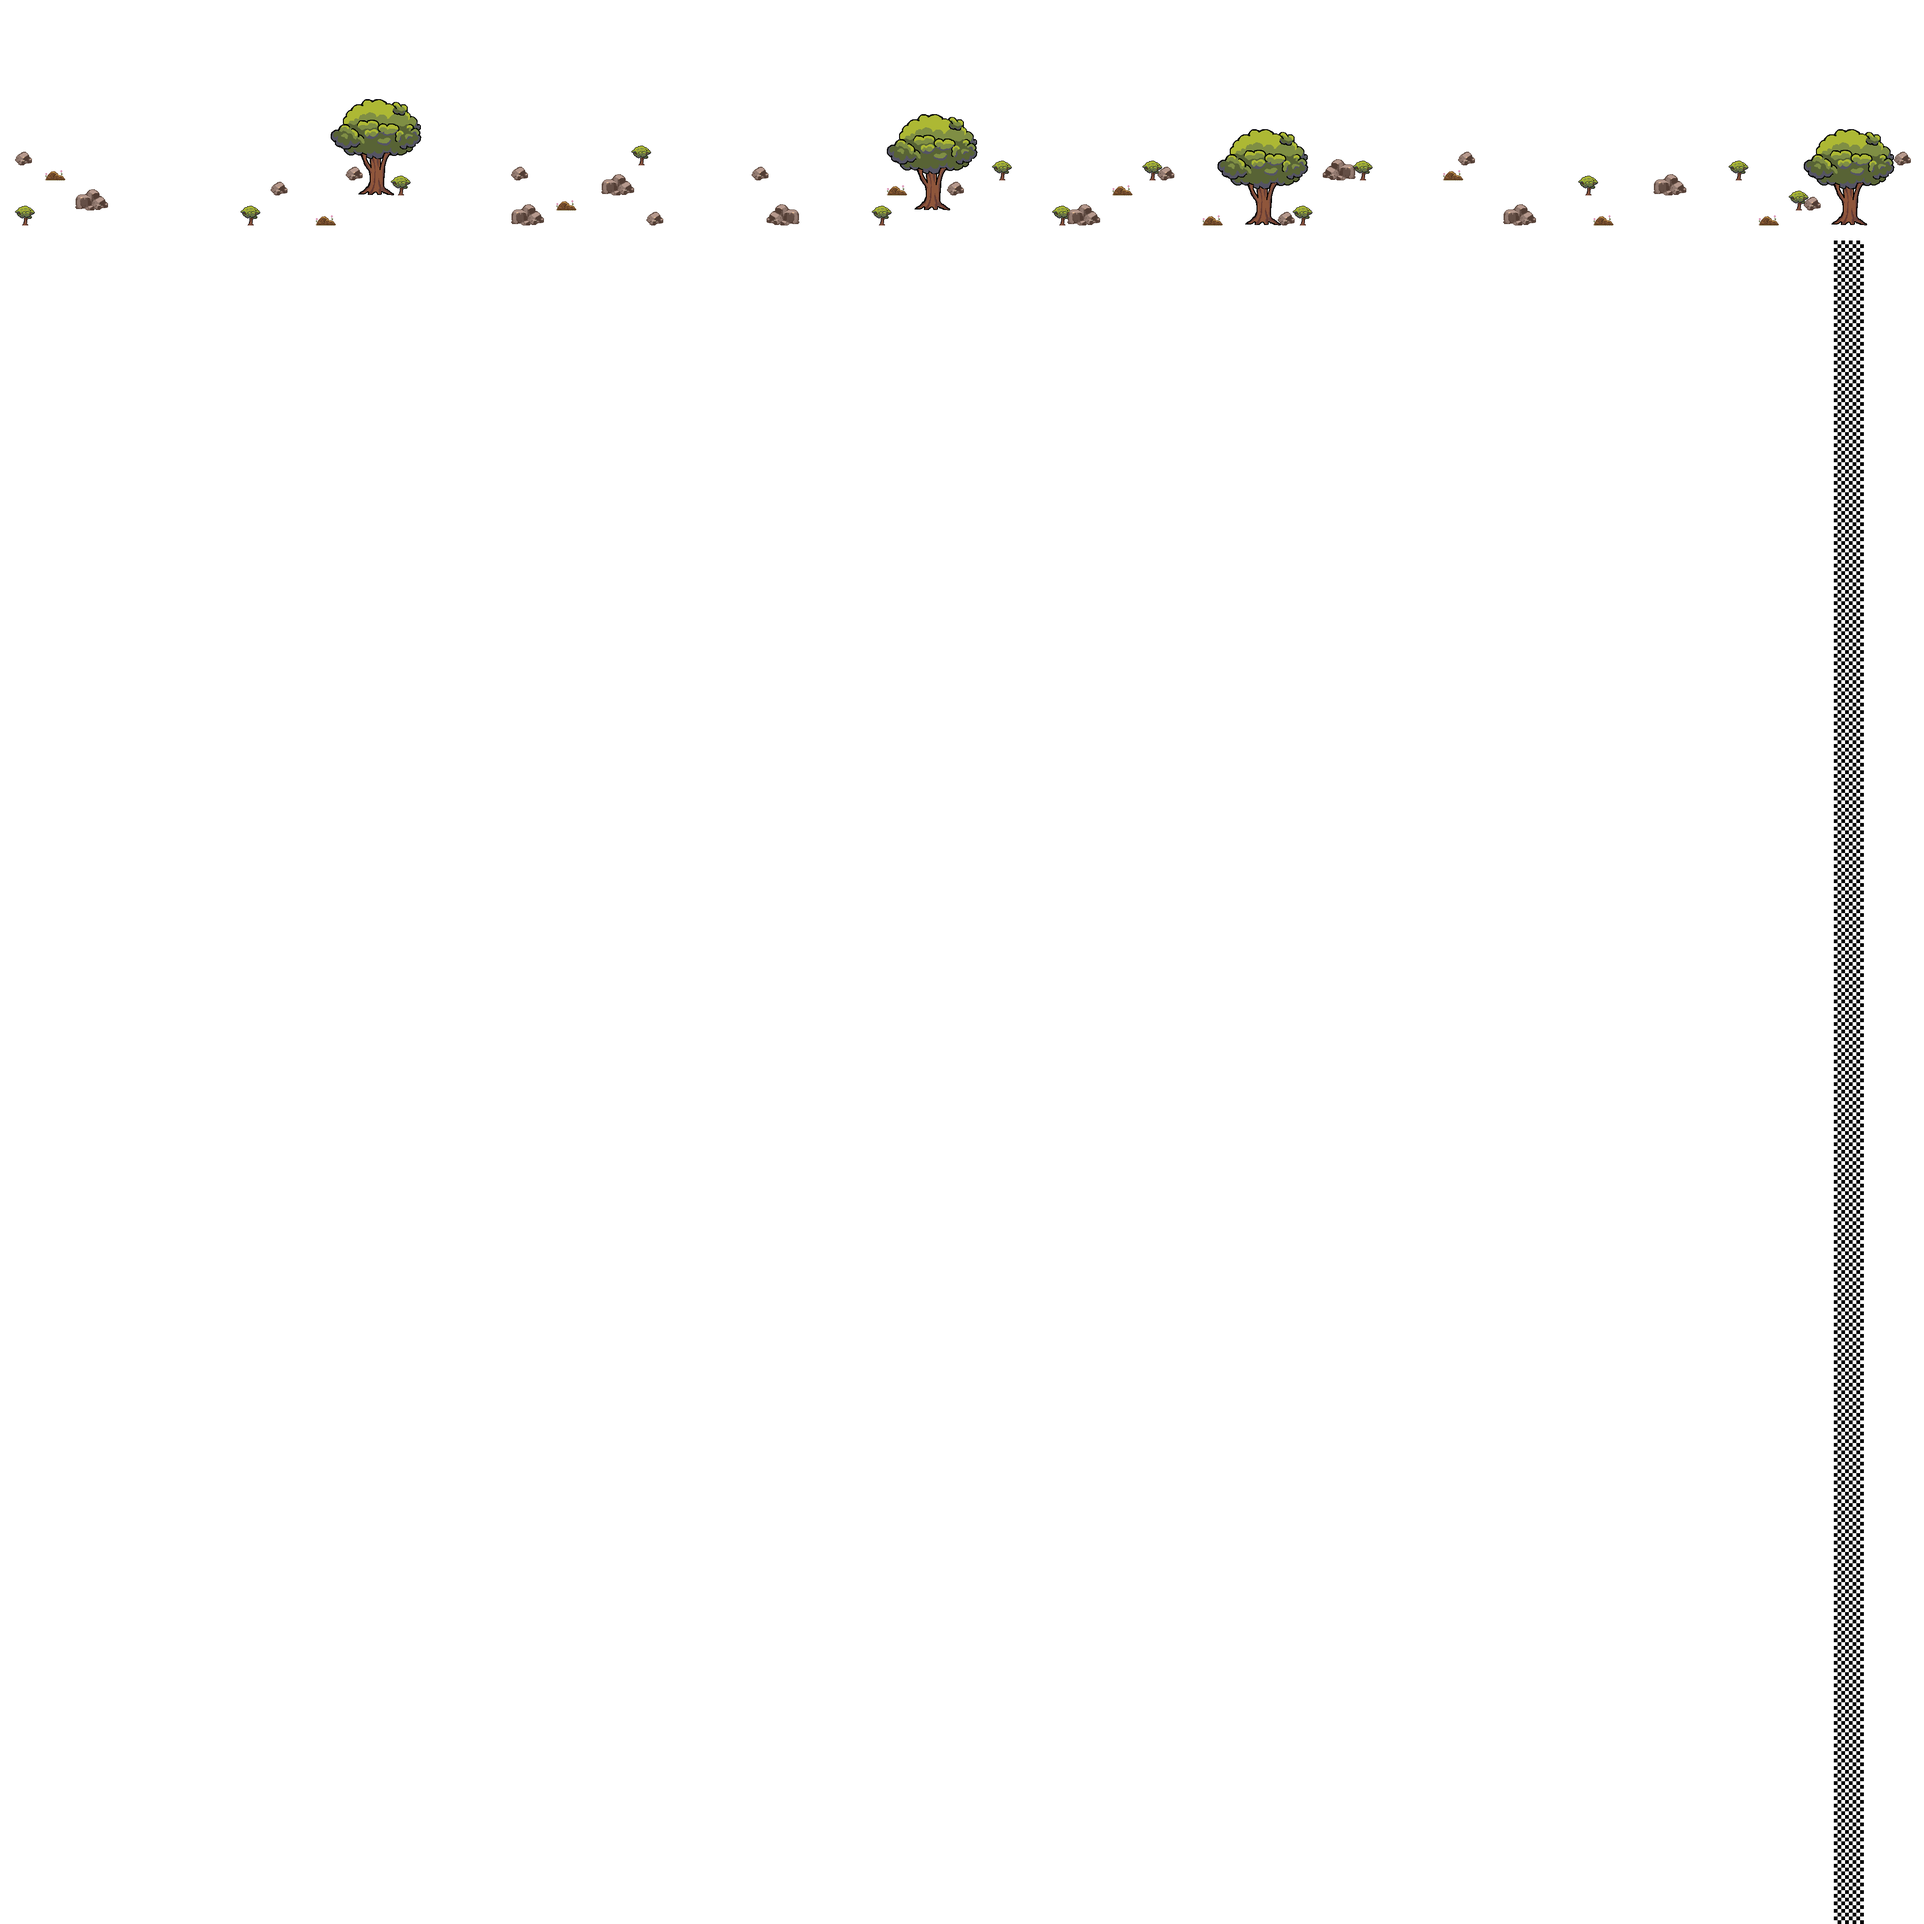
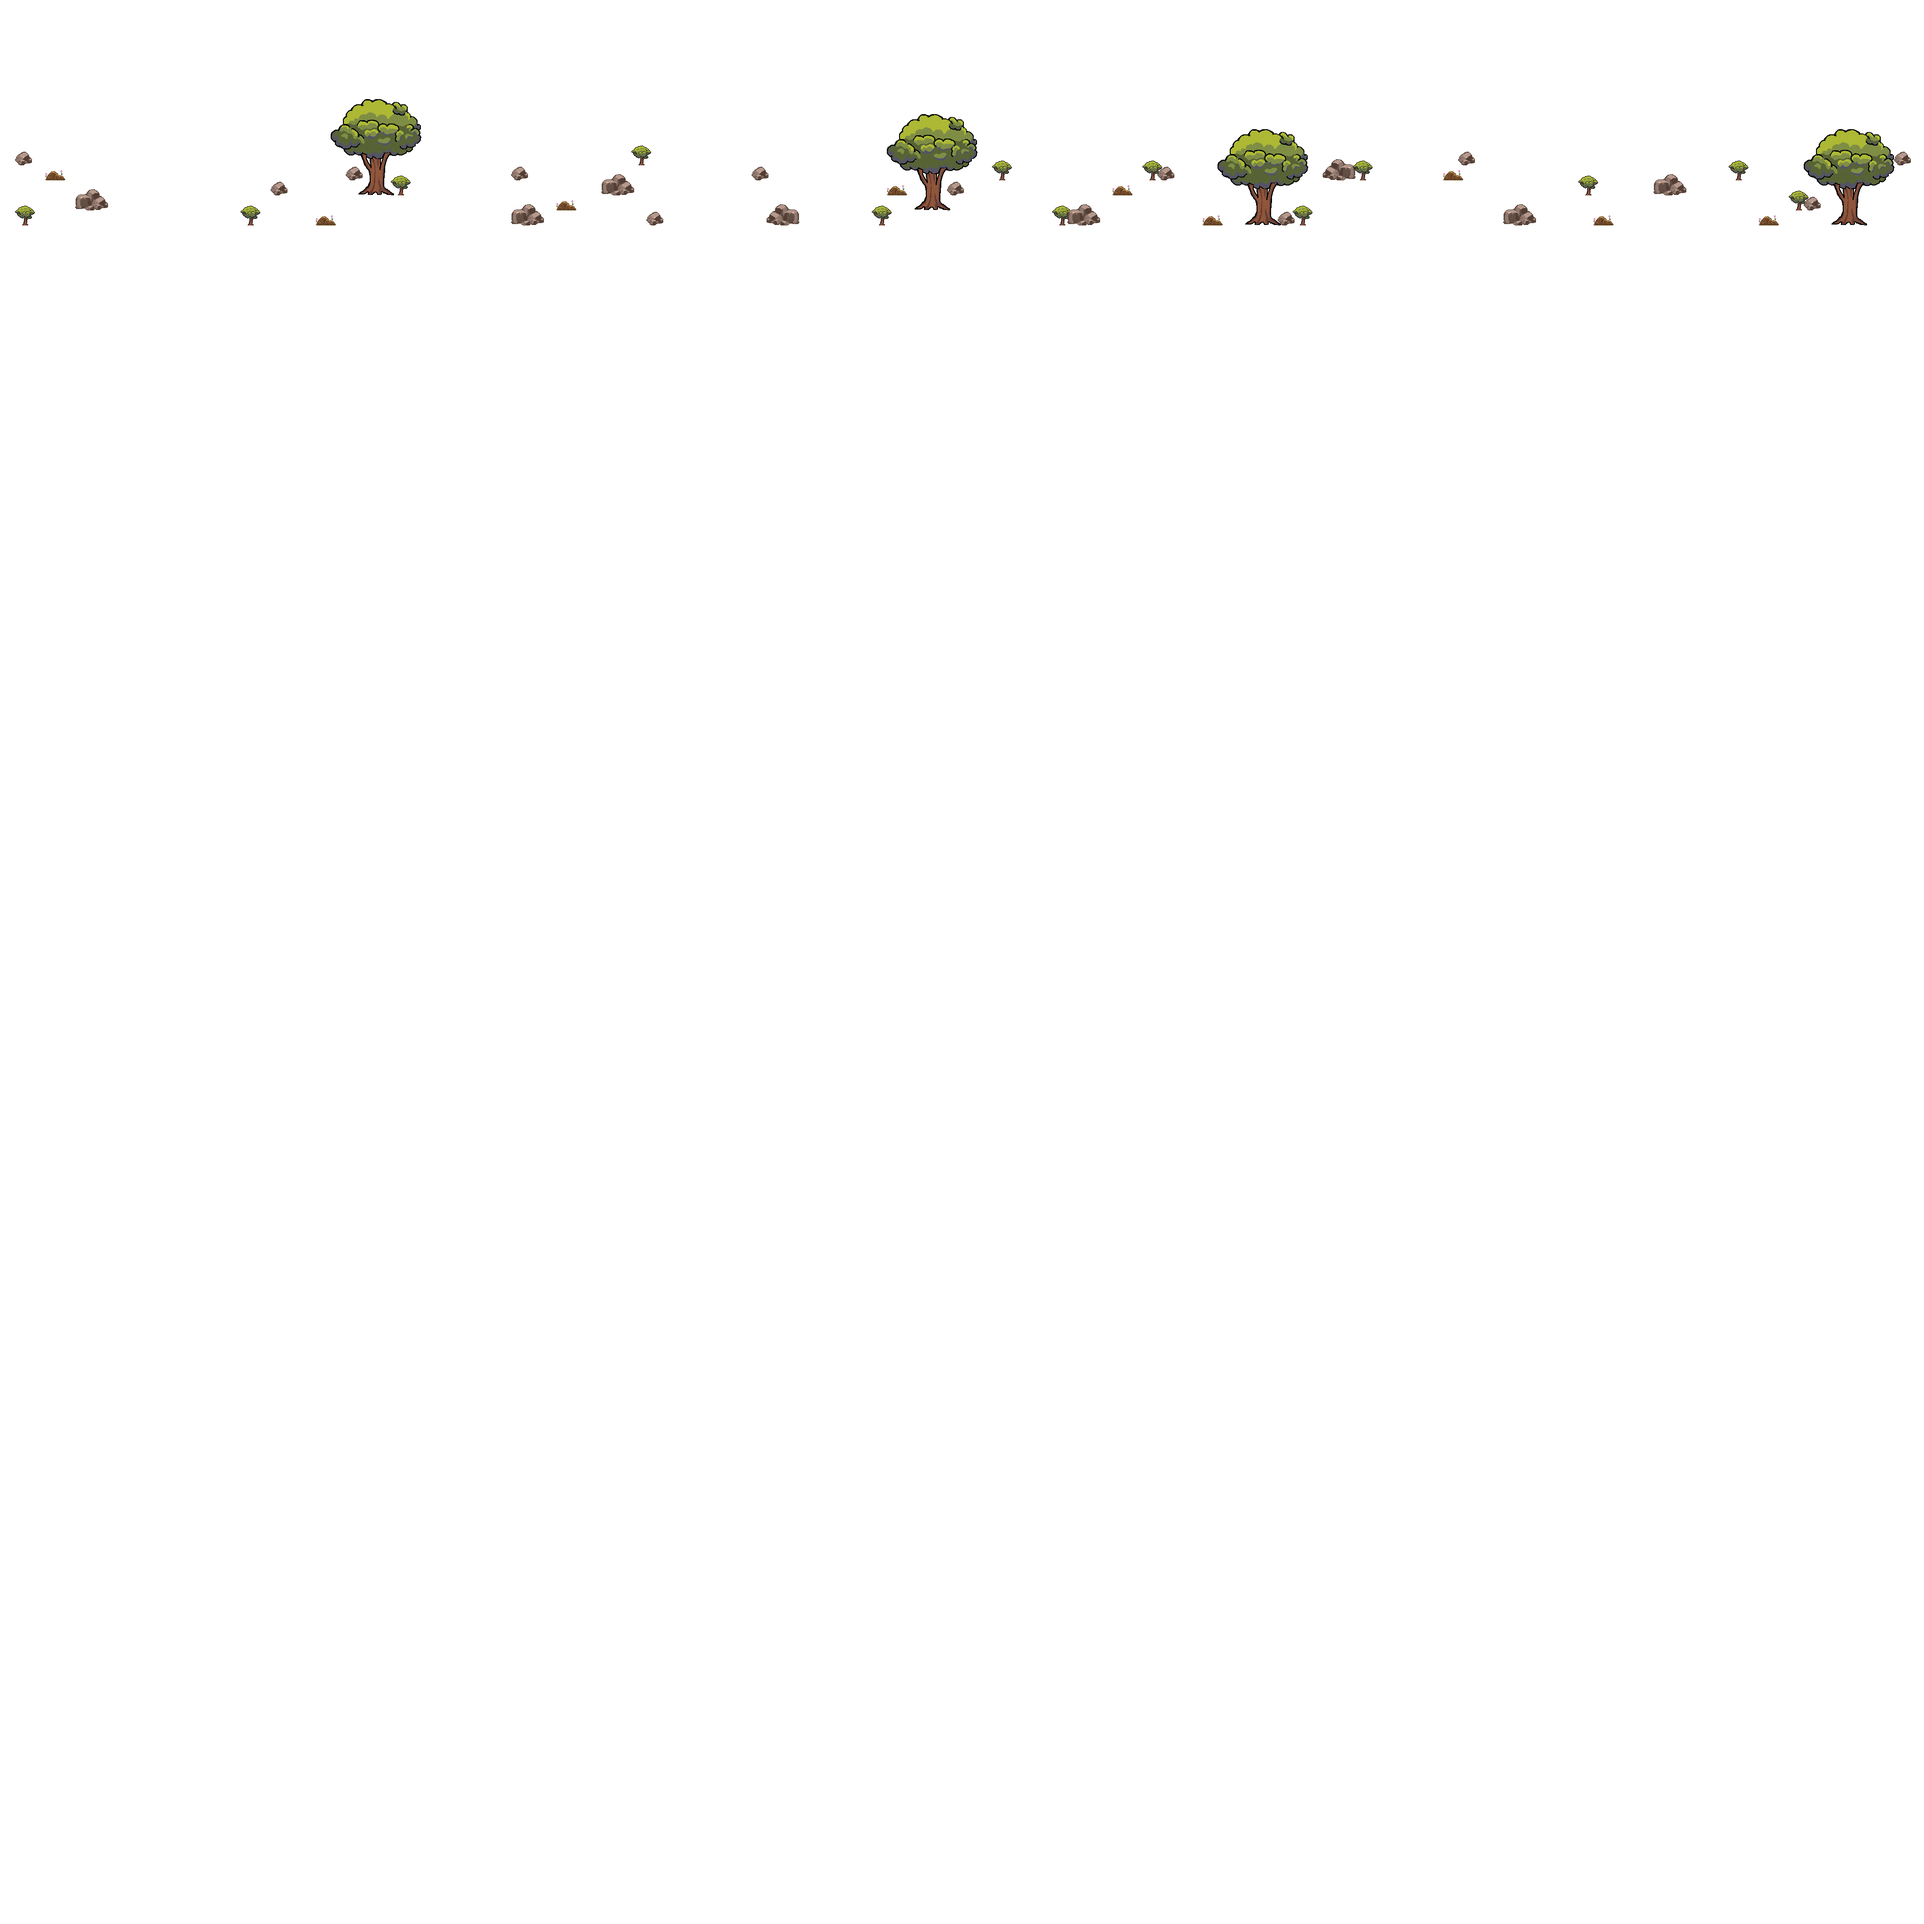
Background spanning fixed + ported to typeScript

Changed region(s): [[0.9375, 0.125, 0.9688, 1.0]]

diff --git a/src/app/managers/BackgroundManager.ts b/src/app/managers/BackgroundManager.ts
@@ -1,21 +1,39 @@
-import { Sprite, Texture } from 'pixi.js';
+import { Container, Sprite, Texture } from 'pixi.js';
+import Camera from '../components/Camera';
+import { GameConfig } from '../config';
+
 
 export default class BackgroundManager {
     private scene: any;
-    private layers: Record<string, Sprite> = {};
+    private assets: any;
+    private layers: Record<string, Sprite[]> = {};
+    private finalLineSprite: Sprite;
 
     constructor(scene: any, assets: Record<string, Texture>) {
         this.scene = scene;
+        this.assets = assets;
 
-        this.layers['sky'] = this.addLayer('sky', assets);
-        this.layers['mountains'] = this.addLayer('mountains', assets);
-        this.layers['trees'] = this.addLayer('trees', assets);
-        this.layers['grass'] = this.addLayer('grass', assets);
-        this.layers['water'] = this.addLayer('water', assets);
-        this.layers['topItems'] = this.addLayer('topItems', assets);
+        this.layers['sky'] = [];
+        this.layers['mountains'] = [];
+        this.layers['trees'] = [];
+        this.layers['grass'] = [];
+        this.layers['water'] = [];
+        this.layers['topItems'] = [];
+
+        this.layers['sky'].push(this.addSprite('sky', assets));
+        this.layers['mountains'].push(this.addSprite('mountains', assets));
+        this.layers['trees'].push(this.addSprite('trees', assets));
+        this.layers['grass'].push(this.addSprite('grass', assets));
+        this.layers['water'].push(this.addSprite('water', assets));
+        this.layers['topItems'].push(this.addSprite('topItems', assets));
+
+        this.finalLineSprite = this.addSprite('finalLine', assets);
+
+
+        // Camera.getInstance().addToMoveWithCamera(this.layers['grass']);
     }
 
-    private addLayer(key: string, assets: Record<string, Texture>): Sprite {
+    private addSprite(key: string, assets: Record<string, Texture>): Sprite {
         const sprite = Sprite.from(assets[key] ?? Texture.EMPTY);
         sprite.anchor.set(0, 0);
         sprite.x = 0;
@@ -24,7 +42,46 @@ export default class BackgroundManager {
         return sprite;
     }
 
+    public ensureBackgroundFillsScreen(screenWidth: number, screenHeight: number): void {
+
+        Object.entries(this.layers).forEach(([layerName, spriteArray]) => {
+            if (spriteArray.length === 0) return; // skip empty layers
+
+            const lastSprite = spriteArray[spriteArray.length - 1];
+
+            if (lastSprite.x + lastSprite.width < screenWidth) {
+
+                const sprite = Sprite.from(this.assets[layerName] ?? Texture.EMPTY);
+                sprite.anchor.set(0, 0);
+                sprite.x = lastSprite.x + lastSprite.width;
+                sprite.y = lastSprite.y;
+                sprite.zIndex = lastSprite.zIndex;
+                this.scene.add(sprite);
+
+                this.layers[layerName].push(sprite);
+
+            }
+        });
+
+
+        if(screenWidth > GameConfig.finalLine_width){
+            //move final line to the end of screen
+            var diff = screenWidth - GameConfig.finalLine_width;
+            this.finalLineSprite.x = diff;
+            this.finalLineSprite.zIndex += 1;
+            GameConfig.win_x += diff;
+
+        }
+
+    }
+
     public destroy(): void {
-        Object.values(this.layers).forEach(layer => layer.destroy());
+        for (const sprites of Object.values(this.layers)) {
+            sprites.forEach(sprite => {
+                sprite.parent?.removeChild(sprite);
+                sprite.destroy();
+            });
+        }
+        this.layers = {};
     }
 }

diff --git a/src/app/scenes/GameScene.ts b/src/app/scenes/GameScene.ts
@@ -20,10 +20,11 @@ export default class GameScene extends BasicScene {
         this.scaleFactor = 1;
         GameConfig.base_speed = 1;
         GameConfig.ipc_start = { x: 100, y: 600 };
+        GameConfig.win_x = 4020;
     }
 
     public async onLoadComplete(): Promise<void> {
-        this.backgroundManager = new BackgroundManager(this, this.assets);
+
 
         this.rockManager = GameConfig.rocks_enabled ? new RockManager(this) : null;
 
@@ -34,6 +35,8 @@ export default class GameScene extends BasicScene {
         await ipcManager.init();
 
         Camera.init(this);
+        this.backgroundManager = new BackgroundManager(this, this.assets);
+
 
         UIManager.init(this);
 
@@ -100,6 +103,9 @@ export default class GameScene extends BasicScene {
             this.container.position.set(0, 0);
             //fix ui layer
             UIManager.getInstance().displayObject.scale.set(1 / this.scaleFactor);
+
+            // Ensure backgrounds fill screen at new scale
+            this.backgroundManager.ensureBackgroundFillsScreen(this.getScreenWidth() / this.scaleFactor, this.getScreenHeight() / this.scaleFactor);
         }
     }
 

diff --git a/src/app/components/IpcController.ts b/src/app/components/IpcController.ts
@@ -49,7 +49,7 @@ export default class IpcController {
         };
         
         const moveIPC = (ticker: any): void => {
-            if (this.view.container.x < 4020) {
+            if (this.view.container.x < GameConfig.win_x) {
                 if (!this.pauseMove) {
                     this.totalRolls++;
                     const roll = Math.random() * 100;
@@ -64,8 +64,8 @@ export default class IpcController {
                     this.view.updateGraph(this.getSuccessRate());
                 }
 
-                if (this.view.container.x > 4020) {
-                    this.view.container.x = 4020;
+                if (this.view.container.x > GameConfig.win_x) {
+                    this.view.container.x = GameConfig.win_x;
                 }
             } else {
                 this.endRace(moveIPC, ipcCelebrate);

diff --git a/src/app/config.js b/src/app/config.js
@@ -2,8 +2,10 @@ export var GameConfig = {
     debug: false,
     rocks_enabled : false,
     ipc_start : { x: 100, y: 600 },
-    ipc_camera_padding: 2, 
-    
+    ipc_camera_padding: 2,
+    win_x : 4020,
+    finalLine_width : 4080,
+
     padding : { top:20 , right:100 , bottom:60 ,left: 100},
     sprite_scale: 0.5,
     base_speed: 1

diff --git a/src/app/managers/UIManager.ts b/src/app/managers/UIManager.ts
@@ -24,6 +24,7 @@ export default class UIManager {
     private constructor(scene: any) {
         this.scene = scene;
         this.container = new Container();
+        this.container.zIndex = 1000;
 
         const screenWidth = this.scene.getScreenWidth();
         const screenHeight = this.scene.getScreenHeight();
